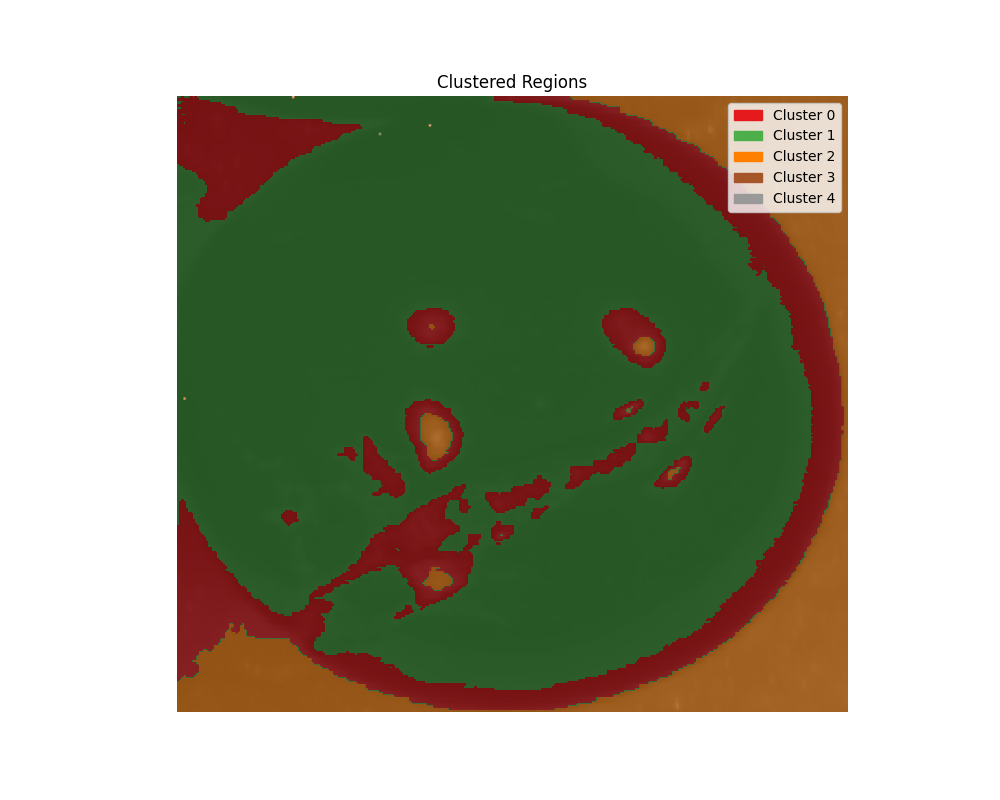
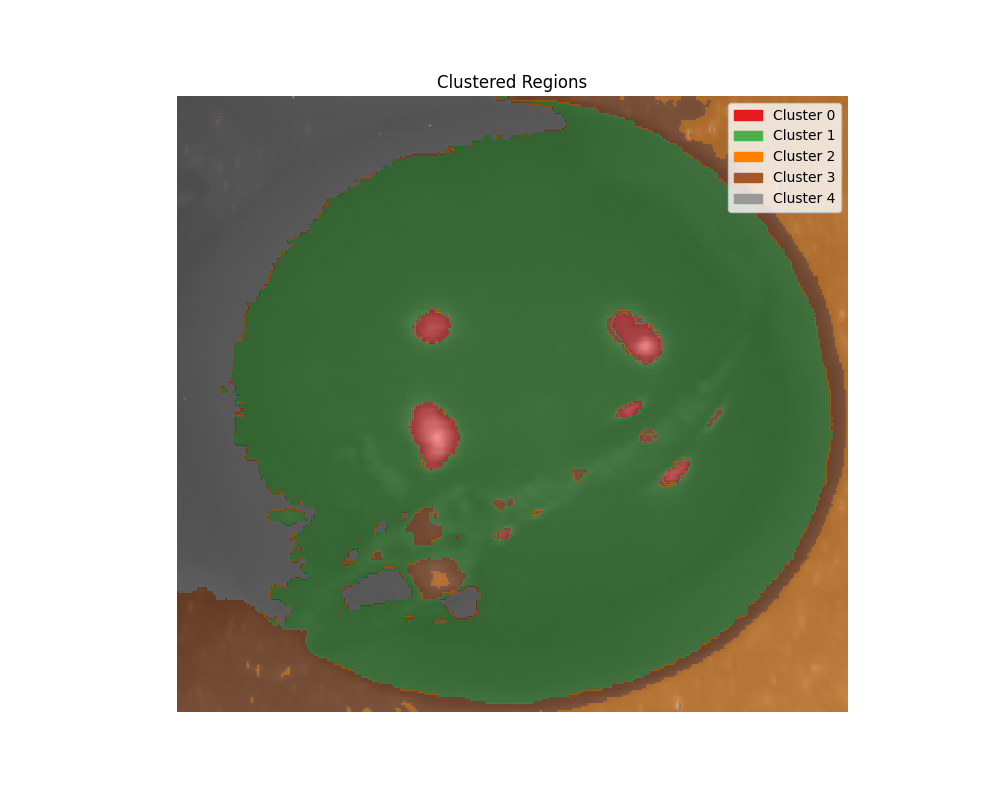
second batch

diff --git a/train.py b/train.py
@@ -1,0 +1,155 @@
+import sys
+import os
+from network_utils import *
+
+
+import numpy as np
+import torch
+import torch.nn as nn
+import torch.optim as optim
+from torch.utils.data import DataLoader, TensorDataset
+
+
+
+# Initialisations
+start_wavelength = 529.91
+end_wavelength = 580.80
+filepath = "/mnt/c/Users/mahmo/Desktop/Github_Dump/QualiCrop/data_paths.txt"
+epochs = 5
+batch_size = 1
+height = 800
+width = 1024
+num_bands = 39
+
+
+
+
+
+
+
+# Define VAE architecture
+# Define VAE architecture
+# Define hyperparameters
+height, width, bands = 800, 1024, 39  # Define the input shape
+latent_dim = 32
+epochs = 100
+batch_size = 1
+
+# Define the VAE model
+class VAE(nn.Module):
+    def __init__(self, input_dim, latent_dim):
+        super(VAE, self).__init__()
+        self.input_dim = input_dim
+        self.latent_dim = latent_dim
+
+        # Encoder layers
+        self.encoder = nn.Sequential(
+            nn.Conv2d(in_channels=input_dim[0], out_channels=32, kernel_size=3, stride=2, padding=1),
+            nn.ReLU(),
+            nn.Conv2d(in_channels=32, out_channels=64, kernel_size=3, stride=2, padding=1),
+            nn.ReLU(),
+            nn.Flatten()
+        )
+        self.fc_mu = nn.Linear(64 * (input_dim[1] // 4) * (input_dim[2] // 4), latent_dim)
+        self.fc_logvar = nn.Linear(64 * (input_dim[1] // 4) * (input_dim[2] // 4), latent_dim)
+
+        # Decoder layers
+        self.decoder_input = nn.Linear(latent_dim, 64 * (input_dim[1] // 4) * (input_dim[2] // 4))
+        self.decoder = nn.Sequential(
+            nn.ConvTranspose2d(in_channels=64, out_channels=32, kernel_size=3, stride=2, padding=1, output_padding=1),
+            nn.ReLU(),
+            nn.ConvTranspose2d(in_channels=32, out_channels=input_dim[0], kernel_size=3, stride=2, padding=1, output_padding=1),
+            nn.Sigmoid()
+        )
+
+    def reparameterize(self, mu, logvar):
+        std = torch.exp(0.5 * logvar)
+        eps = torch.randn_like(std)
+        return mu + eps * std
+
+    def forward(self, x):
+        # Encode
+        x = self.encoder(x)
+        mu = self.fc_mu(x)
+        logvar = self.fc_logvar(x)
+        z = self.reparameterize(mu, logvar)
+
+        # Decode
+        x = self.decoder_input(z)
+        x = x.view(-1, 64, self.input_dim[1] // 4, self.input_dim[2] // 4)
+        reconstruction = self.decoder(x)
+        return reconstruction, mu, logvar
+
+# Define the loss function
+def vae_loss(recon_x, x, mu, logvar):
+    BCE = nn.functional.binary_cross_entropy(recon_x.view(-1, input_dim[0] * input_dim[1] * input_dim[2]),
+                                             x.view(-1, input_dim[0] * input_dim[1] * input_dim[2]), reduction='sum')
+    KLD = -0.5 * torch.sum(1 + logvar - mu.pow(2) - logvar.exp())
+    return BCE + KLD
+
+# Load your dataset
+def load_data():
+        #Data Loading
+    hsi_data_list, selected_wavelengths_list = load_envi_hsi_by_wavelengths_net(filepath, start_wavelength, end_wavelength)
+
+    #Check Data
+    for hsi_data, selected_wavelengths in zip(hsi_data_list, selected_wavelengths_list):
+        print("Loaded HSI data shape:", hsi_data.shape)
+        
+    preprocessed_data_list = []
+    for hsi_data in hsi_data_list:
+        # Normalize intensity values to range [0, 1]
+        hsi_data_normalized = hsi_data / np.max(hsi_data)
+        # Optionally, reshape the data if needed
+        # hsi_data_reshaped = hsi_data_normalized.reshape(...)
+
+        # Append preprocessed data to list
+        preprocessed_data_list.append(hsi_data_normalized)
+
+    # Convert list to numpy array
+    preprocessed_data_array = np.array(preprocessed_data_list)
+
+    # Print shape of preprocessed data
+    print("Preprocessed data shape:", preprocessed_data_array.shape)
+    hsi_tensor = torch.tensor(preprocessed_data_array, dtype=torch.float32)
+    return hsi_tensor
+    #pass
+
+
+# Check for GPU availability
+device = torch.device("cuda" if torch.cuda.is_available() else "cpu")
+
+# Load and preprocess the data
+data = load_data()
+
+# Transpose the data to have channels as the second dimension
+data = data.permute(0, 3, 1, 2)
+
+# Move data to the device
+data = data.to(device)
+
+# Update input dimension
+input_dim = (bands, height, width)
+
+# Create DataLoader
+dataloader = DataLoader(data, batch_size=batch_size, shuffle=True)
+
+
+# Initialize the VAE model
+model = VAE(input_dim, latent_dim).to(device)
+print("intialised!!!")
+# Define optimizer
+optimizer = optim.Adam(model.parameters(), lr=1e-3)
+
+# Training loop
+for epoch in range(epochs):
+    total_loss = 0
+    for batch in dataloader:
+        optimizer.zero_grad()
+        recon_batch, mu, logvar = model(batch)
+        loss = vae_loss(recon_batch, batch, mu, logvar)
+        loss.backward()
+        optimizer.step()
+        total_loss += loss.item()
+    print('Epoch [{}/{}], Loss: {:.4f}'.format(epoch+1, epochs, total_loss / len(dataloader.dataset)))
+torch.save(model.state_dict(), 'vae_model.pth')

diff --git a/segment/test.py b/segment/test.py
@@ -33,6 +33,7 @@ white = '/mnt/c/Users/mahmo/Desktop/Github_Dump/hsi_images_qualicrop_fx10e_29-01
 # Specify the range of bands to load (visible analysis)
 start_wl = 529.91
 end_wl = 580.80
+#end_wl = 850.00
 
 # Loading HSI Cube 
 hsi_data_raw, bandss = load_envi_hsi_by_wavelength(raw, start_wl, end_wl)
@@ -45,6 +46,12 @@ img = get_rgb(RGB_former, bands=[0,1,2])
 image = cv2.normalize(img, None, alpha = 0, beta = 255, norm_type = cv2.NORM_MINMAX, dtype = cv2.CV_32F)
 image = image.astype(np.uint8)
 
+#Uncomment to view the RGB Image
+#cv2.namedWindow("main", cv2.WINDOW_NORMAL)
+#cv2.imshow('main', image)
+#cv2.waitKey(0)
+#cv2.destroyAllWindows()
+
 #Calibration (Tc-Td/Tw-Td)
 corrected_data = data_correction(hsi_data_raw, hsi_data_dark, hsi_data_white)
 #corrected_data= min_max_normalization_per_wavelength(corrected_data)
@@ -53,16 +60,16 @@ corrected_data = data_correction(hsi_data_raw, hsi_data_dark, hsi_data_white)
 del hsi_data_raw, hsi_data_white, hsi_data_dark #Trying to save space. LOL
 
 #Segmentation
-segmentation = model.predict(image, save=False, save_txt=False, box=True, imgsz=640, line_thickness=1, retina_masks=True)
+segmentation = model.predict(image, save=True, save_txt=False, box=True, imgsz=640, line_thickness=1, retina_masks=True)
 ROIS = gather_segmented_pixels(segmentation, save_dir, min_width_threshold=50, min_height_threshold=50)
 HSI_rois =  extract_rois_from_hsi(corrected_data, ROIS)
 plot_reflectance_data(HSI_rois, wavelengths)
 
 
     
-####Try Kmeans Operation ######################
-#clustter_labels = kmeans_clustering(HSI_rois[0],3)
-#visualize_clusters(HSI_rois[0],clustter_labels,save_path='cluster_means.png')
+#### Try Kmeans Operation (per one) ######################
+clustter_labels = kmeans_clustering(HSI_rois[0],3)
+visualize_clusters(HSI_rois[0],clustter_labels,save_path='cluster_means.png')
 #plot_reflectance_per_cluster(HSI_rois[0],bandss,clustter_labels,save_path='reflectance_cluster.png')
 #scatter_plot_clusters(HSI_rois[0],clustter_labels,save_path='scatter_cluster_means.png')
 #visualize_clustered_hsi(HSI_rois[0],3,save_path='cluster_combine.png')
@@ -74,5 +81,10 @@ plot_reflectance_data(HSI_rois, wavelengths)
 #scatter_plot_clusters(HSI_rois[0],clustter_labels2,save_path='scatter_cluster_medoids.png')
 
 #Now theres on function to do all!!!!####
-cluster_folder = "/mnt/c/Users/mahmo/Desktop/Github_Dump/QualiCrop/segment/clusters"
-process_hsi_rois_cluster(HSI_rois, 4, bandss, cluster_folder, view_wavelength=580.80)
+#cluster_folder = "/mnt/c/Users/mahmo/Desktop/Github_Dump/QualiCrop/segment/clusters"
+#cluster_labels = process_hsi_rois_cluster(HSI_rois, 5, bandss, cluster_folder, view_wavelength=580.80)
+
+#Refilling the some labels
+updated_block=replace_intensity_of_label_kmeans(HSI_rois[0], clustter_labels, 2, 0 )
+clustter_labels = kmeans_clustering(updated_block,3)
+visualize_clusters(updated_block,clustter_labels,save_path='cluster_means_updated.png')

diff --git a/network_utils.py b/network_utils.py
@@ -1,0 +1,70 @@
+
+import spectral
+import sys
+import os
+
+
+
+def read_file_paths_from_txt(file_paths_txt):
+    """
+    Read file paths from a text file and return them as a list.
+
+    Parameters:
+        file_paths_txt (str): Path to the text file containing file paths.
+
+    Returns:
+        list of str: List of file paths read from the text file.
+    """
+    # Initialize an empty list to store the file paths
+    file_paths = []
+
+    # Read file paths from the text file
+    with open(file_paths_txt, 'r') as file:
+        for line in file:
+            # Remove leading and trailing whitespaces and newline characters
+            line = line.strip()
+            # Append the file path to the list
+            file_paths.append(line)
+
+    return file_paths
+
+def load_envi_hsi_by_wavelengths_net(filepath_txt, start_wavelength, end_wavelength):
+    """
+    Load ENVI hyperspectral images (HSIs) from a specific range of wavelengths.
+    
+    Parameters:
+        filepaths (list of str): List of file paths to the ENVI HSI files.
+        start_wavelength (float): Starting wavelength (in nanometers).
+        end_wavelength (float): Ending wavelength (in nanometers).
+    
+    Returns:
+        list of numpy.ndarray: List of HSI data cubes containing the specified range of wavelengths.
+        list of numpy.ndarray: List of selected wavelengths for each HSI data cube.
+    """
+    all_hsi_data = []
+    all_selected_wavelengths = []
+    filepaths = read_file_paths_from_txt(filepath_txt)
+    
+    for filepath in filepaths:
+        # Open the HSI file
+        hsi_data = spectral.envi.open(filepath)
+        
+        # Get wavelength information
+        wavelengths = hsi_data.bands.centers
+        
+        # Find bands within the specified range of wavelengths
+        selected_bands = [i for i, w in enumerate(wavelengths) if start_wavelength <= w <= end_wavelength]
+        
+        if not selected_bands:
+            raise ValueError("No bands found within the specified range of wavelengths for file:", filepath)
+        
+        # Read the selected bands
+        hsi_subset = hsi_data.read_bands(selected_bands)
+        
+        selected_wavelengths = [wavelengths[i] for i in selected_bands]
+        
+        # Append loaded data to lists
+        all_hsi_data.append(hsi_subset)
+        all_selected_wavelengths.append(selected_wavelengths)
+    
+    return all_hsi_data, all_selected_wavelengths

diff --git a/detection_utils.py b/detection_utils.py
@@ -357,3 +357,34 @@ def process_hsi_rois_cluster(HSI_rois, num_clusters, bands_list, save_folder, vi
         # View/save the image at a specific wavelength
         if view_wavelength is not None:
             view_image_at_wavelength(roi, get_band_index(bands_list, view_wavelength), f'{save_folder}/image_at_wavelength_{idx}.png')
+    return cluster_labels
+            
+def replace_intensity_of_label_kmeans(hsi_cube, kmeans_labels, original_label, new_label):
+    """
+    Replace intensities of pixels of a particular k-means label with the intensities of another label in a hyperspectral image cube.
+
+    Parameters:
+        hsi_cube (numpy.ndarray): Hyperspectral image cube (3D array).
+        kmeans_labels (numpy.ndarray): K-means cluster labels for each pixel.
+        original_label (int): Original k-means label whose intensities will be replaced.
+        new_label (int): K-means label from which intensities will be copied to replace the original label.
+
+    Returns:
+        numpy.ndarray: Updated HSI cube with replaced intensities.
+    """
+    updated_hsi_cube = hsi_cube.copy()
+    
+    # Find indices of pixels with original and new labels
+    original_indices = np.where(kmeans_labels == original_label)
+    new_indices = np.where(kmeans_labels == new_label)
+    
+    # Match the number of pixels for both labels
+    min_length = min(len(original_indices[0]), len(new_indices[0]))
+    original_indices = (original_indices[0][:min_length], original_indices[1][:min_length])
+    new_indices = (new_indices[0][:min_length], new_indices[1][:min_length])
+    
+    # Iterate over spectral bands and assign intensities
+    for i in range(hsi_cube.shape[2]):
+        updated_hsi_cube[original_indices[0], original_indices[1], i] = hsi_cube[new_indices[0], new_indices[1], i]
+    
+    return updated_hsi_cube
